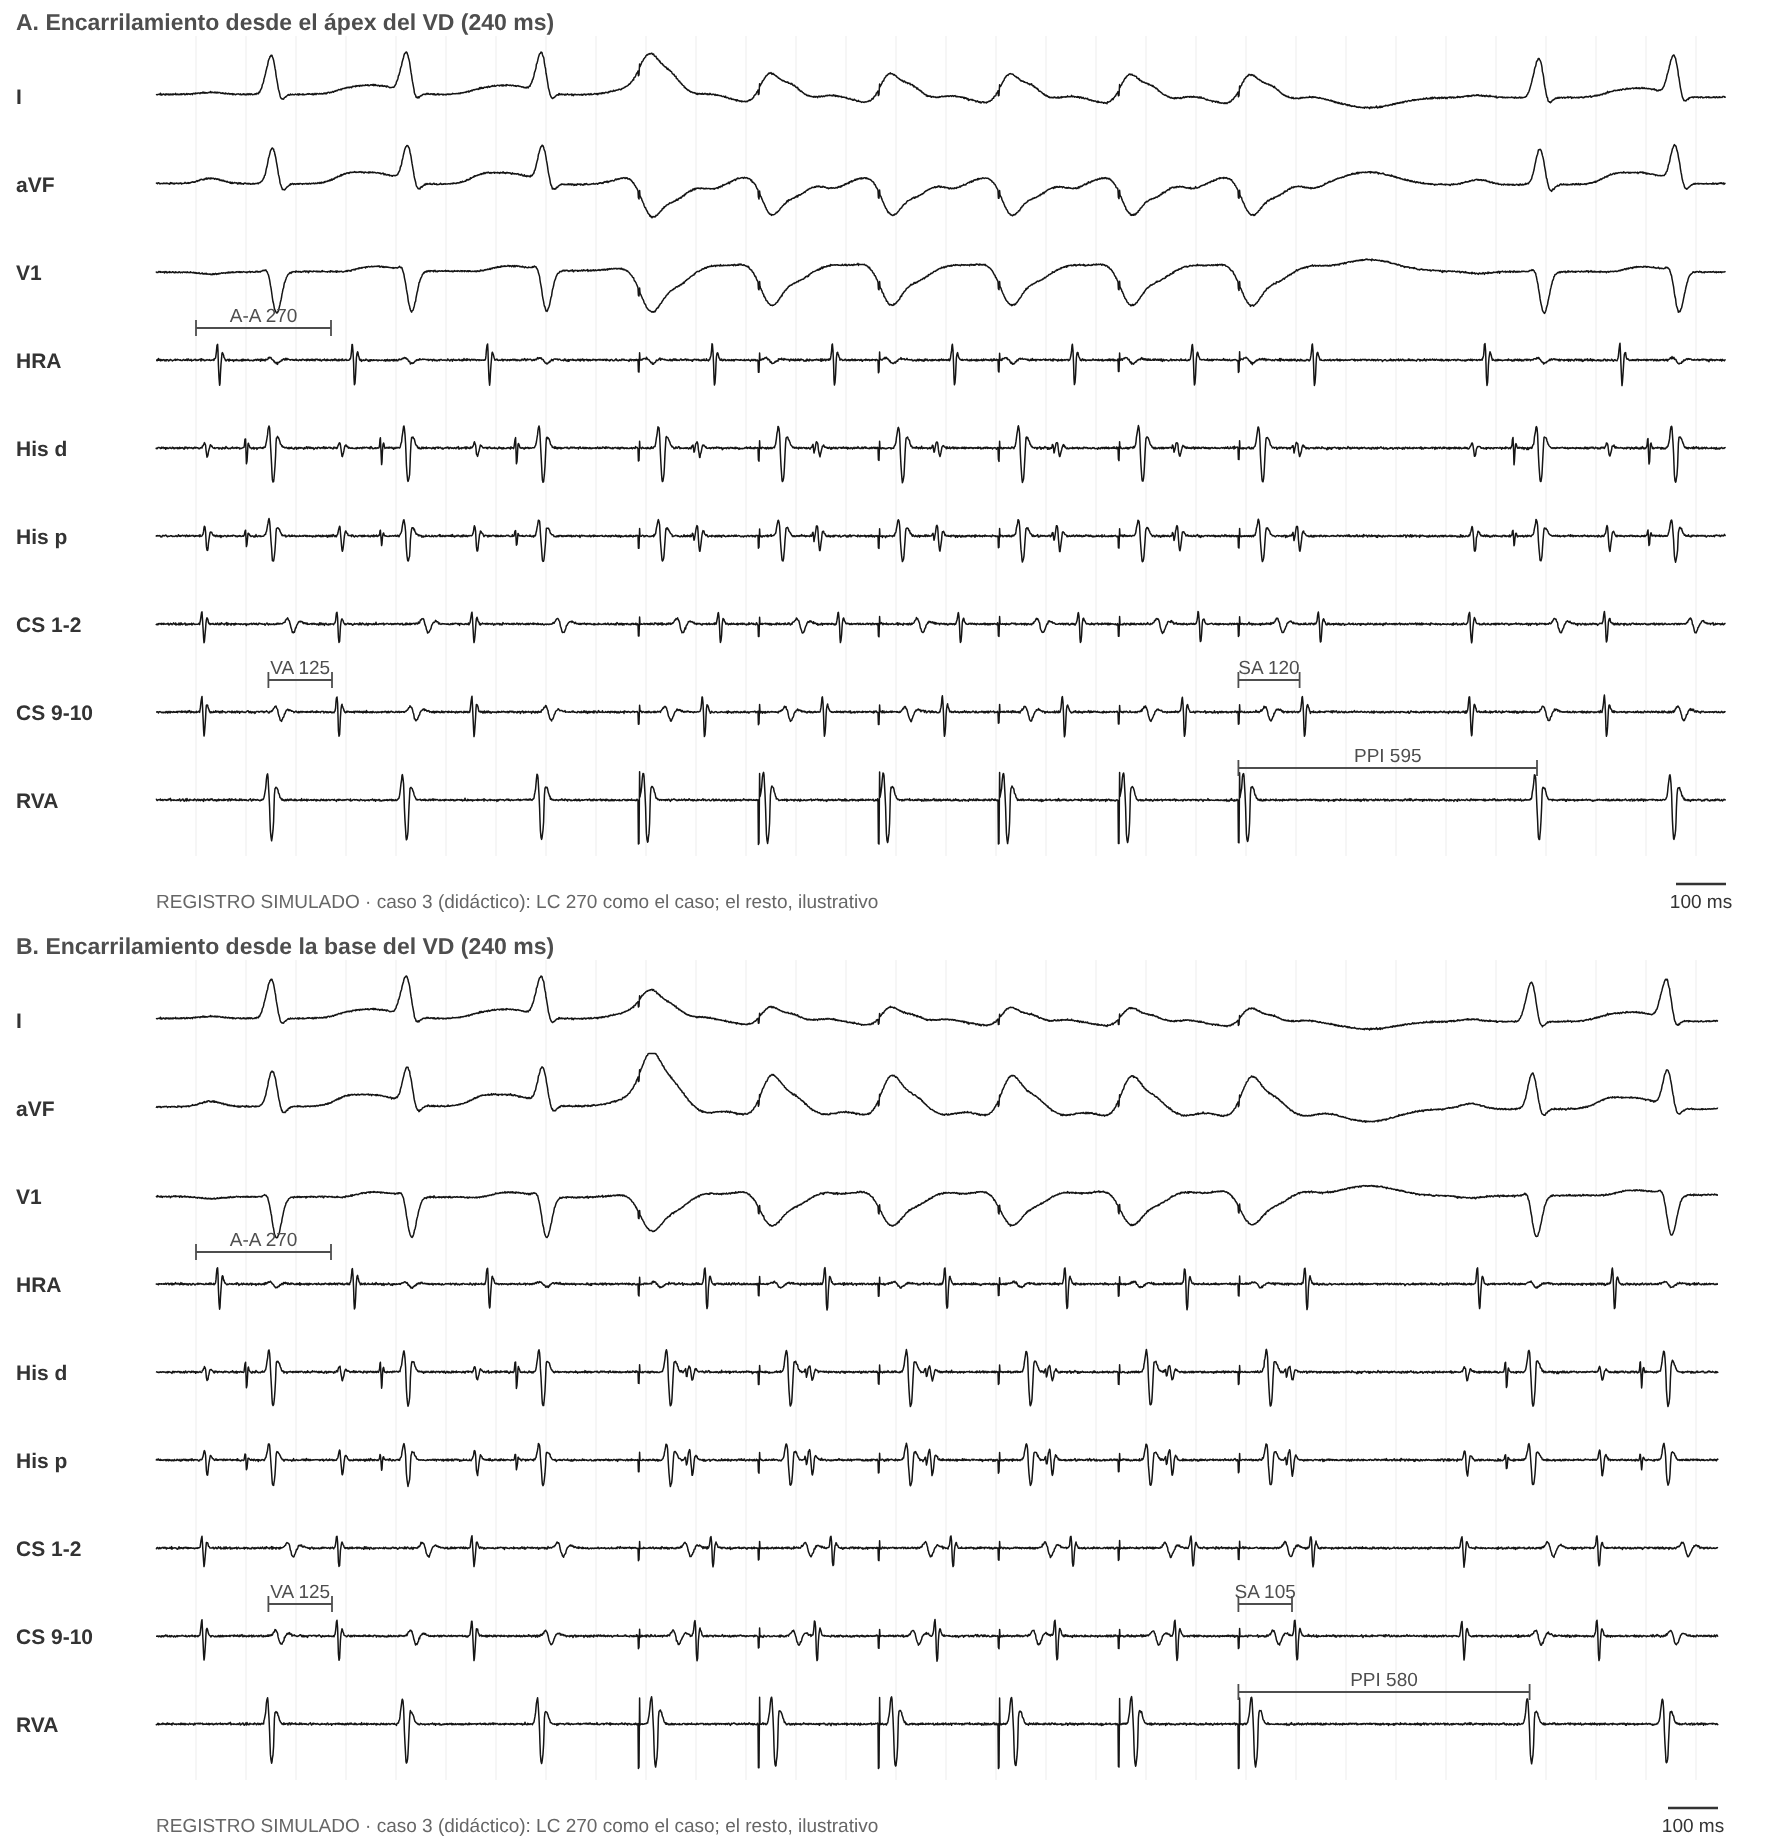
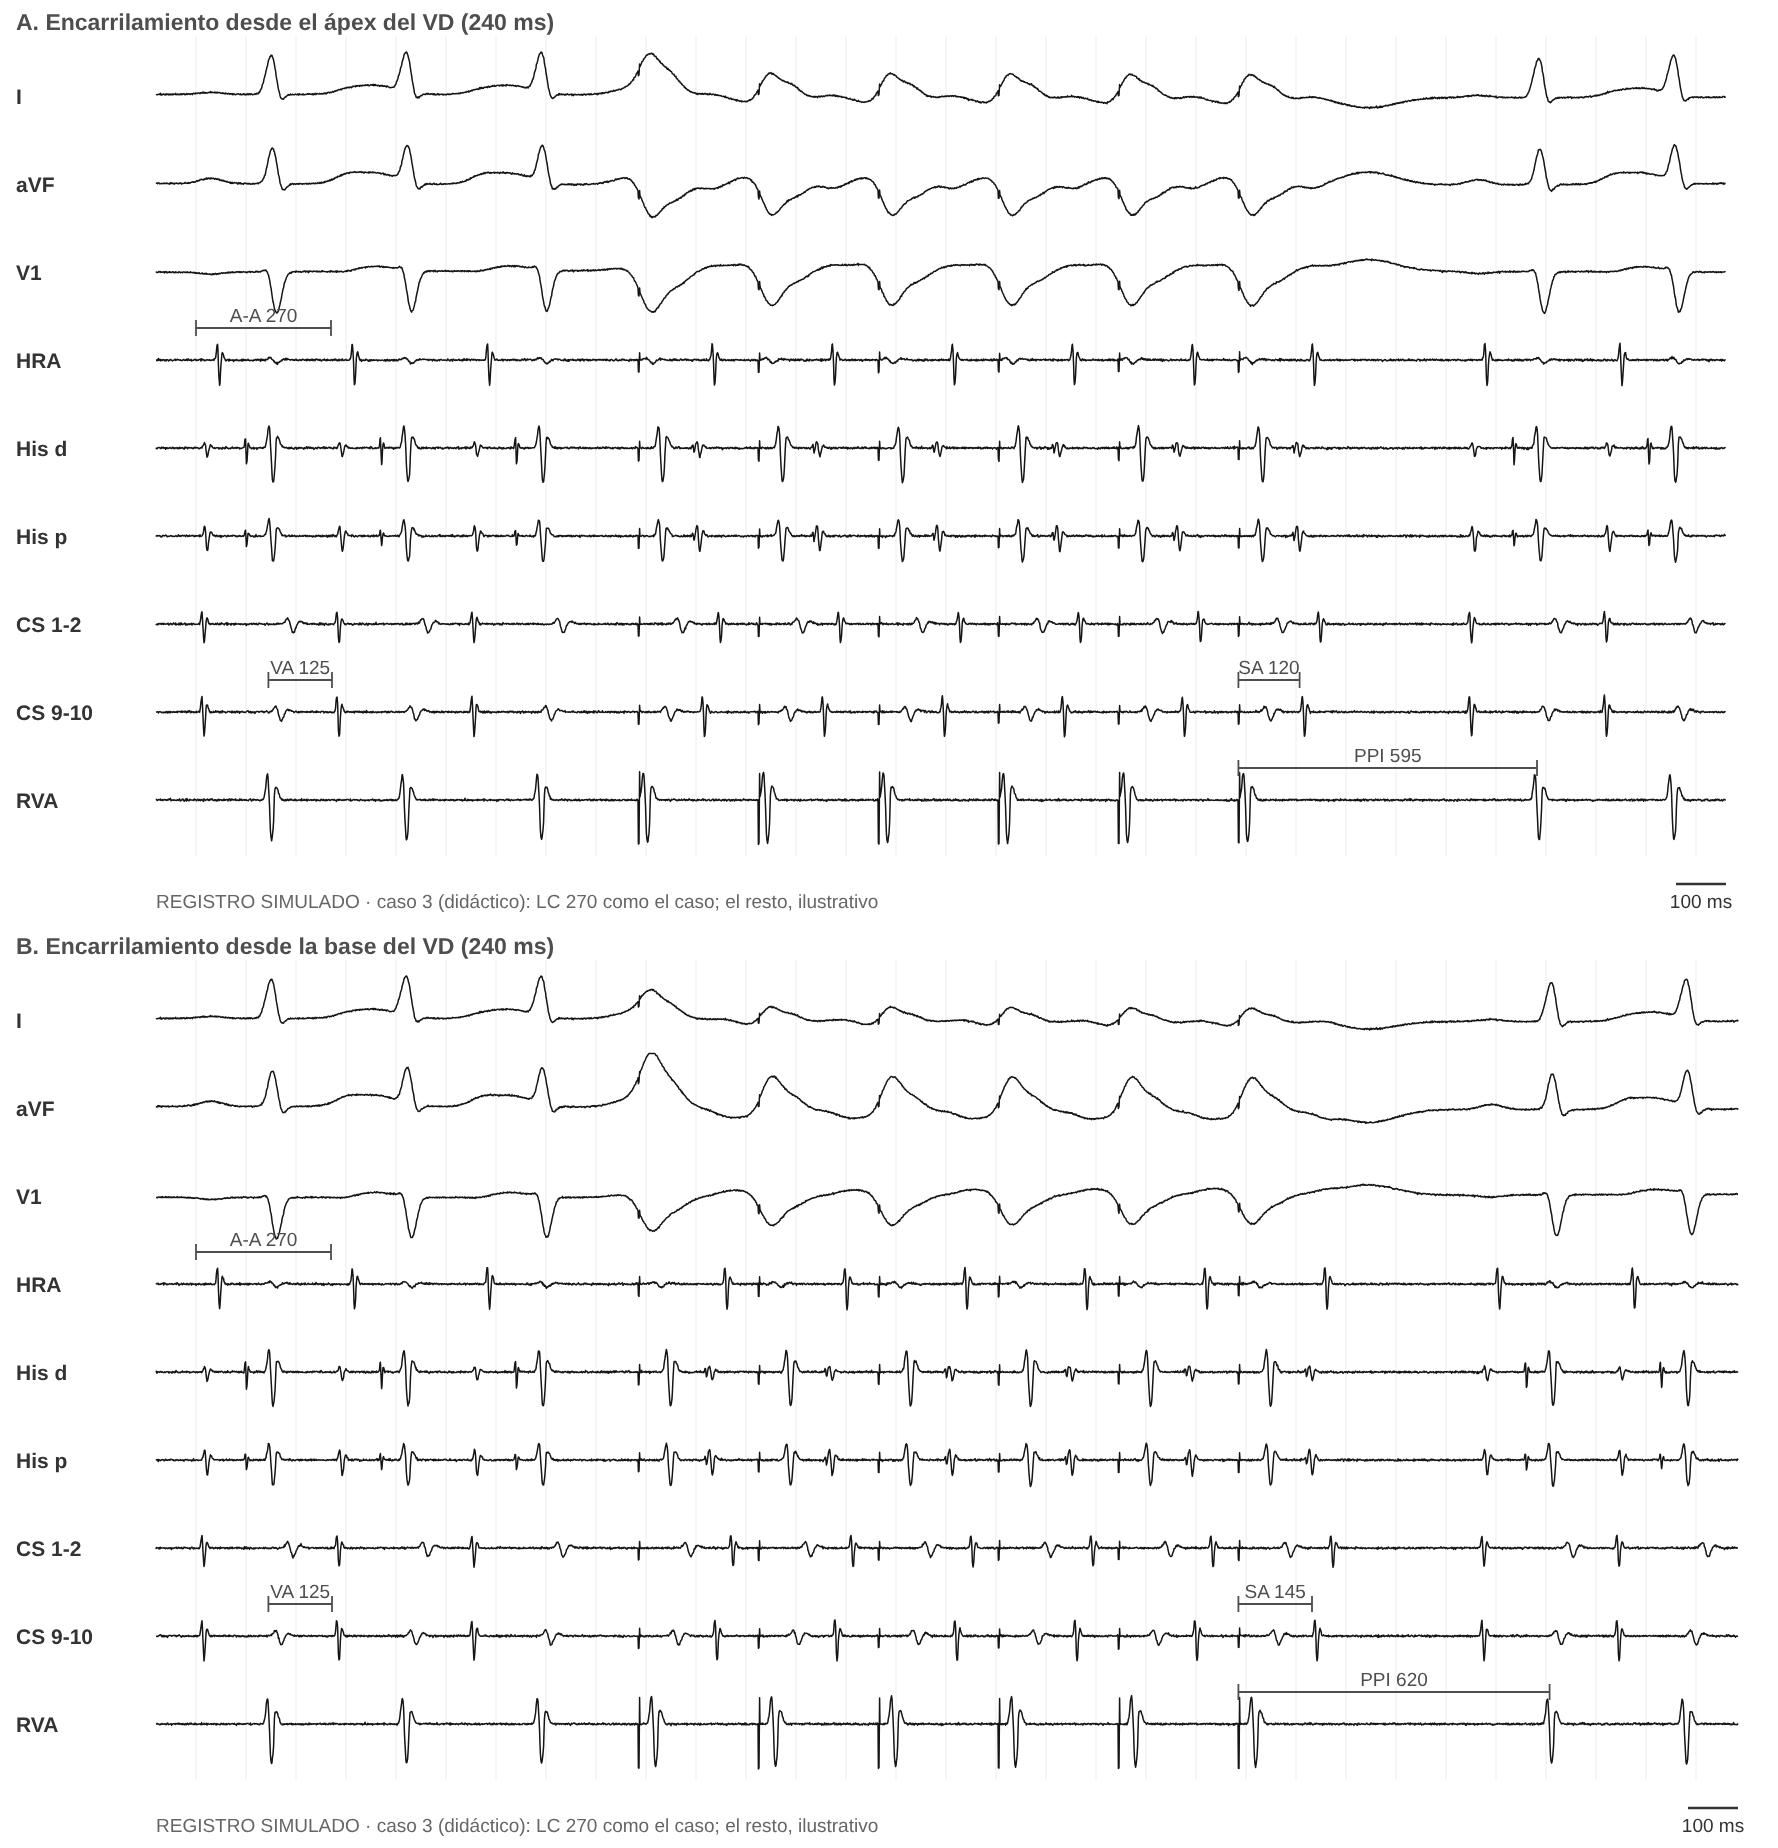
Caso 3: desde la base del VD el SA y el PPI son más largos (conducción VA por el nodo)
Claude-Session: https://claude.ai/code/session_01Pw5rjt62KK5LeJZoEyFiaM

diff --git a/index.html b/index.html
@@ -1298,7 +1298,7 @@ const PCASOS = [
       ado: { v: 'Bloqueo AV 2:1 transitorio: hay A sin V y la taquicardia auricular sigue a 270 ms.', r: 'La taquicardia sigue con bloqueo AV: el nodo y el ventrículo no forman parte del mecanismo; es una TA.', u: 'clave', img: 'figs/sim/prac/p3_ado.png' },
       aop: { v: 'Sobreestimulación auricular a 240 ms (V-V 240) desde la AD alta y desde el ostium del SC. Al cortar, el VA del primer latido es 157 ms desde la AD alta y 117 ms desde el ostium del SC.', r: 'Sin VA linking: el VA de retorno cambia 40 ms (> 14) según el sitio; la A de retorno la dispara el foco, no el V. Excluye TRNAV y TRAV, incluida una TA con PR largo como diferencial.', u: 'clave', img: 'figs/sim/prac/p3_aop.png' },
       medidas: { v: 'PPI 595 ms con LC 270 (PPI−LC 325). SA 120 ms con VA 125 (SA−VA −5).', r: 'Engañosa: con respuesta A-A-V el PPI−LC y el SA−VA no se interpretan (y además se contradicen: uno sugiere TRNAV y el otro TRAV).', u: 'trampa', img: 'figs/sim/prac/p3_medidas.png' },
-      diff: { v: 'Encarrilando a 240 ms: SA 120 desde el ápex y SA 105 desde la base del VD. En los dos, al cortar, A-A-V.', r: 'Engañosa: el encarrilamiento diferencial sirve para TRNAV vs TRAV; con A-A-V no corresponde.', u: 'trampa', img: 'figs/sim/prac/p3_diff.png' },
+      diff: { v: 'Encarrilando a 240 ms: desde el ápex SA 120 y PPI 595; desde la base del VD SA 145 y PPI 620. En los dos, al cortar, A-A-V.', r: 'Engañosa: el encarrilamiento diferencial sirve para TRNAV vs TRAV; con A-A-V no corresponde. Desde la base el SA y el PPI son más largos porque la A se activa por el nodo (el frente tiene que llegar a la RD distal y subir), y el PPI de la TA depende de la A, no del V.', u: 'trampa', img: 'figs/sim/prac/p3_diff.png' },
       ehr: { v: 'EV con el His refractario: la A siguiente no cambia (A-A 270) y la taquicardia sigue.', r: 'No hay una vía que lleve el V a la A. No distingue la TA de la TRNAV.', u: 'util', img: 'figs/sim/prac/p3_ehr.png' },
       eha: { v: 'EA desde el ostium del SC con el His refractario: la A siguiente aparece 300 ms después del EA y el His siguiente se retrasa (H-H 410).', r: 'El EA captura la aurícula y resetea el foco; el His se mueve porque depende de la A. Esperable en la TA.', u: 'util', img: 'figs/sim/prac/p3_eha.png' },
       parahis: { v: 'En sinusal, con captura del His: SA 85 y QRS 95. Solo V: SA 135 y QRS 150. Misma secuencia auricular.', r: 'Respuesta nodal: no hay una vía septal.', u: 'util', img: 'figs/sim/prac/p3_parahis.png' },
@@ -2037,7 +2037,7 @@ $('#goEnr').onclick = () => locView('enr'); $('#goObl').onclick = () => openFich
 document.querySelectorAll('[data-back]').forEach(b => b.onclick = () => locView('hub'));
 try { const t = location.hash === '#localizar' ? 'loc' : localStorage.getItem('mef_tab'); if (t) tab(t); } catch (e) {}
 checkReview();
-const APPV = 147;   // igual al número de CACHE_VERSION de sw.js
+const APPV = 148;   // igual al número de CACHE_VERSION de sw.js
 if ('serviceWorker' in navigator && location.protocol === 'https:') {
   navigator.serviceWorker.register('sw.js').then(r => r.update()).catch(() => {});
   // cuando se instala una versión nueva, recarga una vez para mostrarla

diff --git a/sw.js b/sw.js
@@ -1,6 +1,6 @@
 // Permite instalar la app y abrirla sin conexión. Primero la red (siempre lo último publicado); si no hay, la copia.
 // Si cambiás un archivo, subí CACHE_VERSION.
-const CACHE_VERSION = 'mef-v147';
+const CACHE_VERSION = 'mef-v148';
 const ARCHIVOS = ['./', './index.html', './manifest.json', './iconos/icon-192.png', './iconos/icon-512.png'];
 self.addEventListener('install', e => e.waitUntil(caches.open(CACHE_VERSION).then(c => c.addAll(ARCHIVOS)).then(() => self.skipWaiting())));
 self.addEventListener('activate', e => e.waitUntil(caches.keys().then(ks => Promise.all(ks.filter(k => k !== CACHE_VERSION).map(k => caches.delete(k)))).then(() => self.clients.claim())));

diff --git a/herramientas/simulador/cases6.py b/herramientas/simulador/cases6.py
@@ -306,7 +306,7 @@ def ta_vop(title, med, sa=120, typ='pa', pace='RVA'):
 S['p3_vop'] = ta_vop('Sobreestimulación ventricular desde el ápex del VD a 240 ms', False)
 S['p3_medidas'] = ta_vop('Medidas sobre la sobreestimulación ventricular (ápex del VD a 240 ms): PPI y SA', True)
 S['p3_diff_a'] = ta_vop('A. Encarrilamiento desde el ápex del VD (240 ms)', True, 120, 'pa')
-S['p3_diff_b'] = ta_vop('B. Encarrilamiento desde la base del VD (240 ms)', True, 105, 'pb')
+S['p3_diff_b'] = ta_vop('B. Encarrilamiento desde la base del VD (240 ms)', True, 145, 'pb')
 for k in ('p3_diff_a', 'p3_diff_b'):
     S[k]['marks'] = []
 
